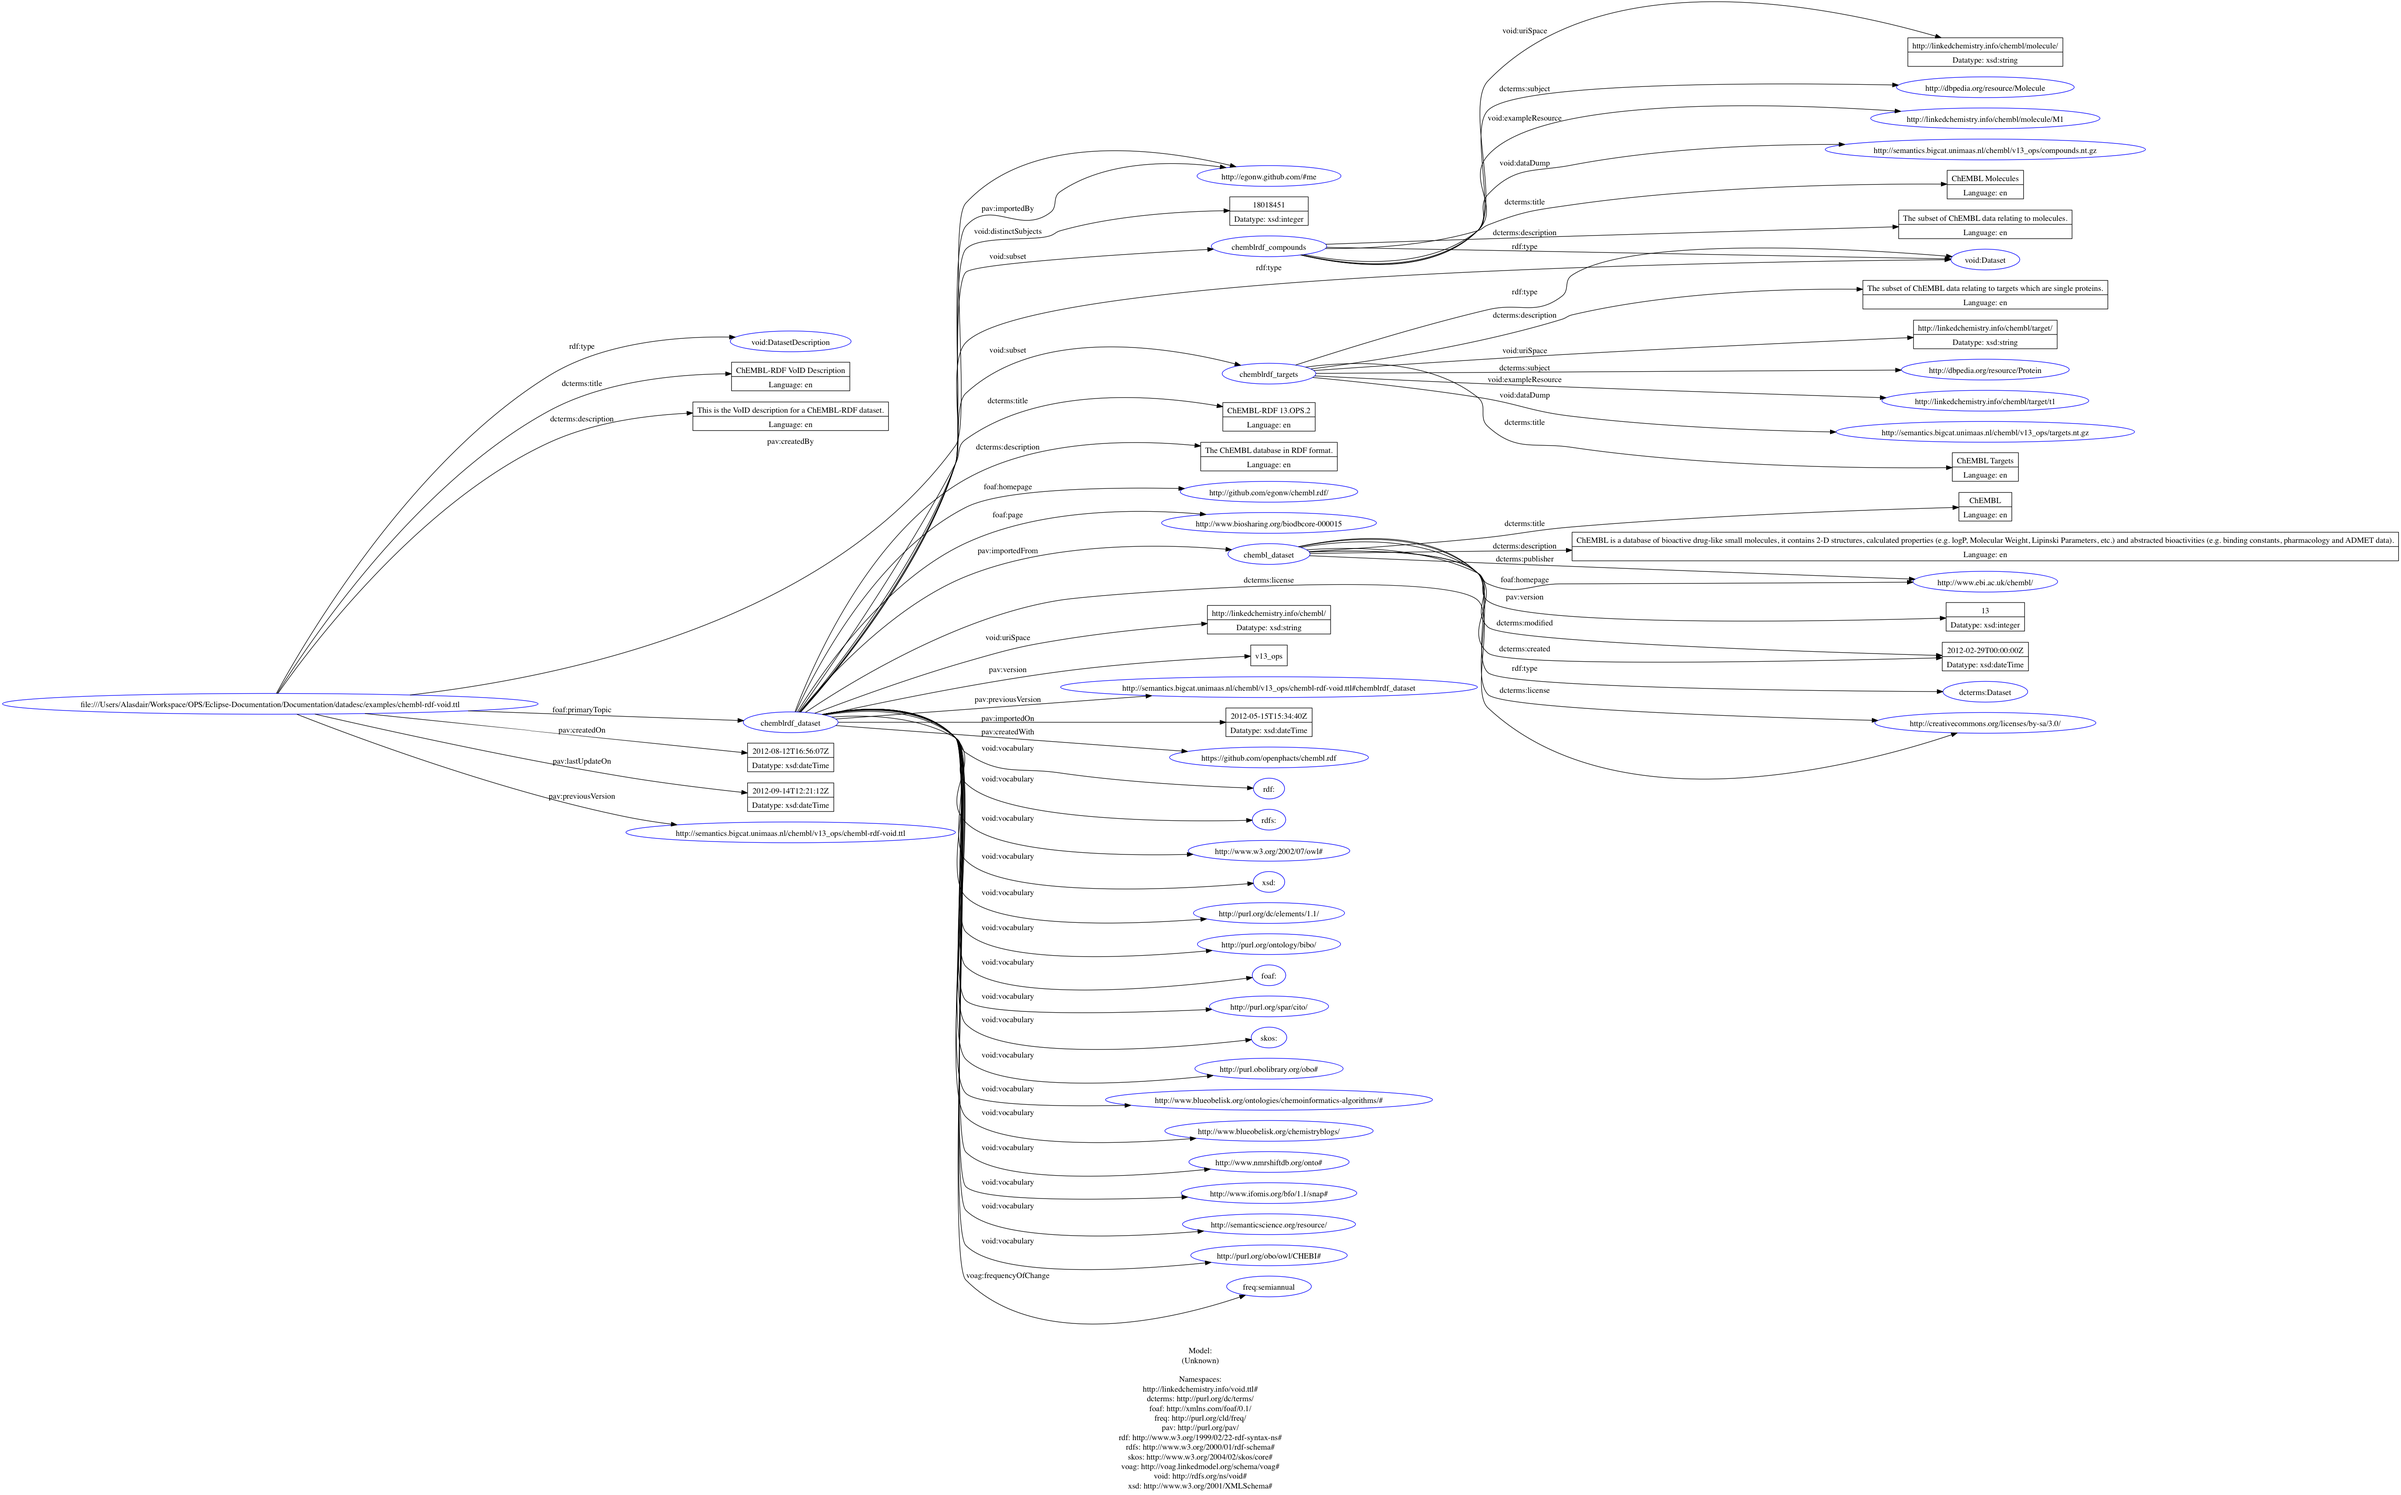
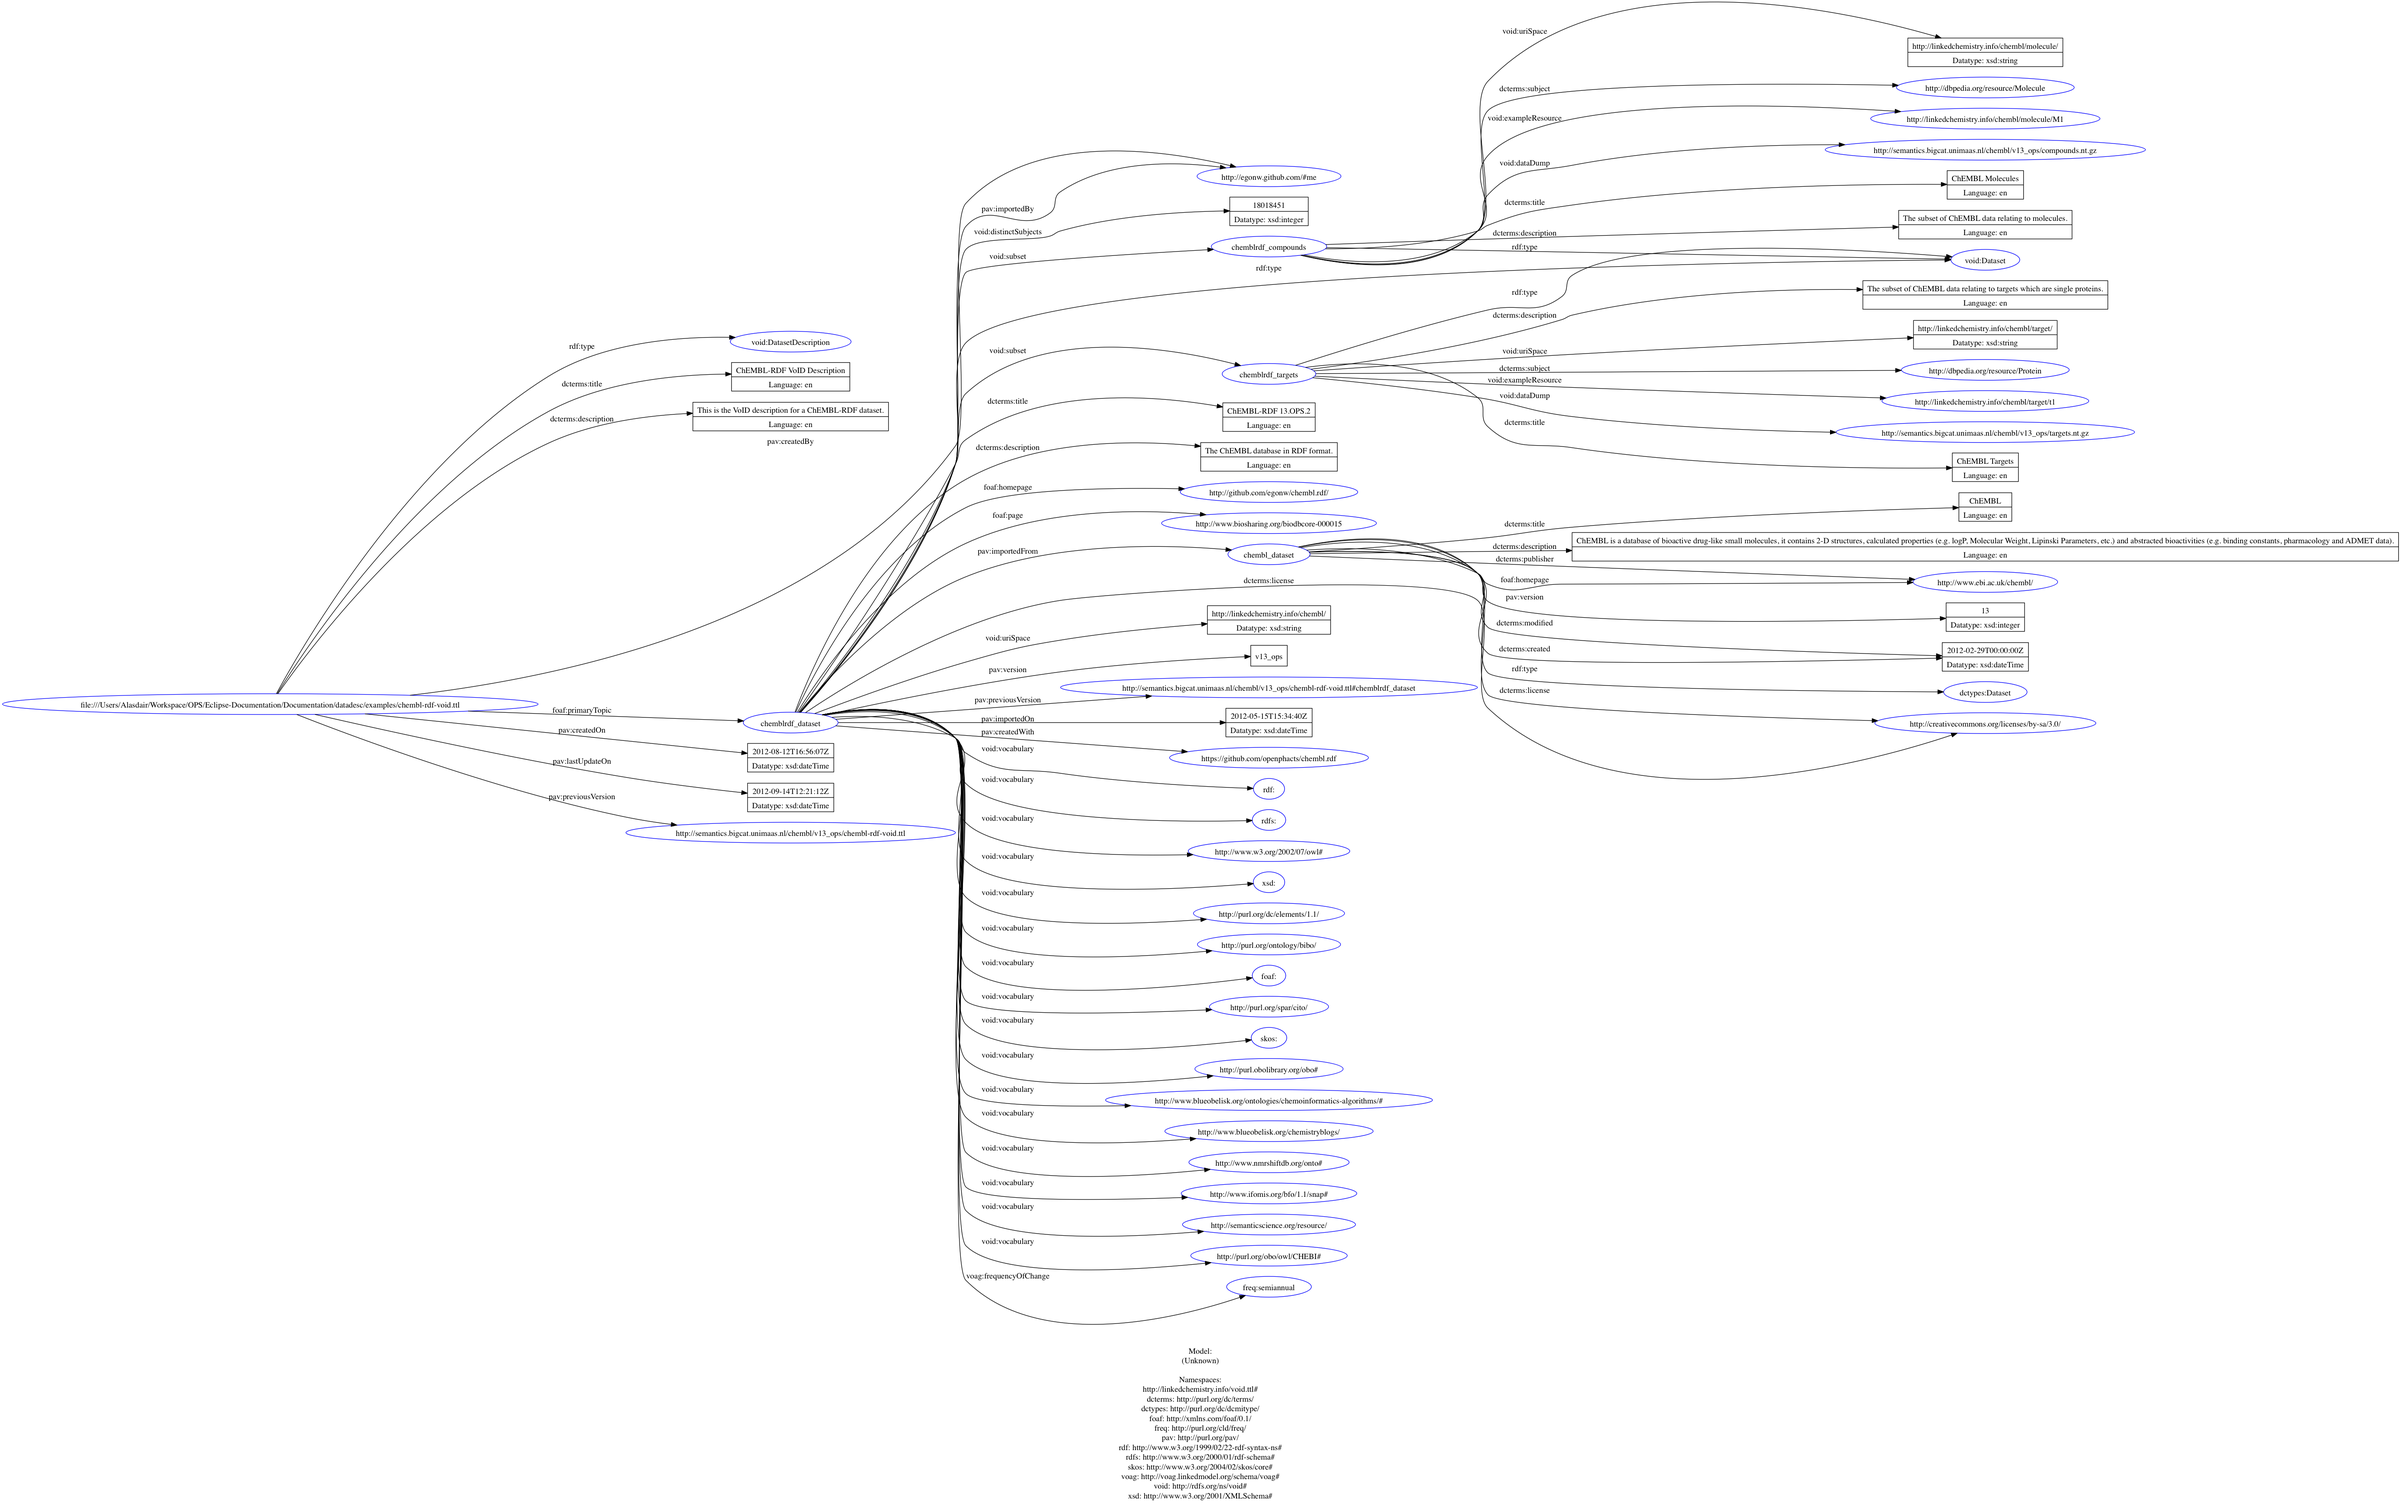
RESOLVED - issue DOC-162: Provide links to tooling (validator and editor) https://openphacts2011.atlassian.net/browse/DOC-162

diff --git a/datadesc/index.html b/datadesc/index.html
@@ -202,6 +202,7 @@
 
 		<pre class="turtle">
 @prefix dcterms: &lt;http://purl.org/dc/terms/&gt; .
+@prefix dctypes: &lt;http://purl.org/dc/dcmitype/&gt; .
 @prefix dul: &lt;http://www.ontologydesignpatterns.org/ont/dul/DUL.owl#&gt; .
 @prefix foaf: &lt;http://xmlns.com/foaf/0.1/&gt; .
 @prefix freq: &lt;http://purl.org/cld/freq/&gt; .
@@ -1940,7 +1941,8 @@
 		<pre class="turtle">
 @prefix : &lt;http://linkedchemistry.info/void.ttl#&gt;.
 
-@prefix dcterms: &lt;http://purl.org/dc/terms/&gt;.
+@prefix dcterms: &lt;http://purl.org/dc/terms/&gt; .
+@prefix dctypes: &lt;http://purl.org/dc/dcmitype/&gt; .
 @prefix foaf: &lt;http://xmlns.com/foaf/0.1/&gt; .
 @prefix freq: &lt;http://purl.org/cld/freq/&gt; .
 @prefix pav: &lt;http://purl.org/pav/&gt;.
@@ -2008,7 +2010,7 @@
 
 :chembl_dataset
 # Metadata about the original data source
-    a dcterms:Dataset;
+    a dctypes:Dataset;
     dcterms:title "ChEMBL"@en;
     dcterms:description """ChEMBL is a database of bioactive drug-like small molecules, it contains 2-D structures, calculated properties (e.g. logP, Molecular Weight, Lipinski Parameters, etc.) and abstracted bioactivities (e.g. binding constants, pharmacology and ADMET data)."""@en;
     foaf:homepage &lt;http://www.ebi.ac.uk/chembl/&gt;;
